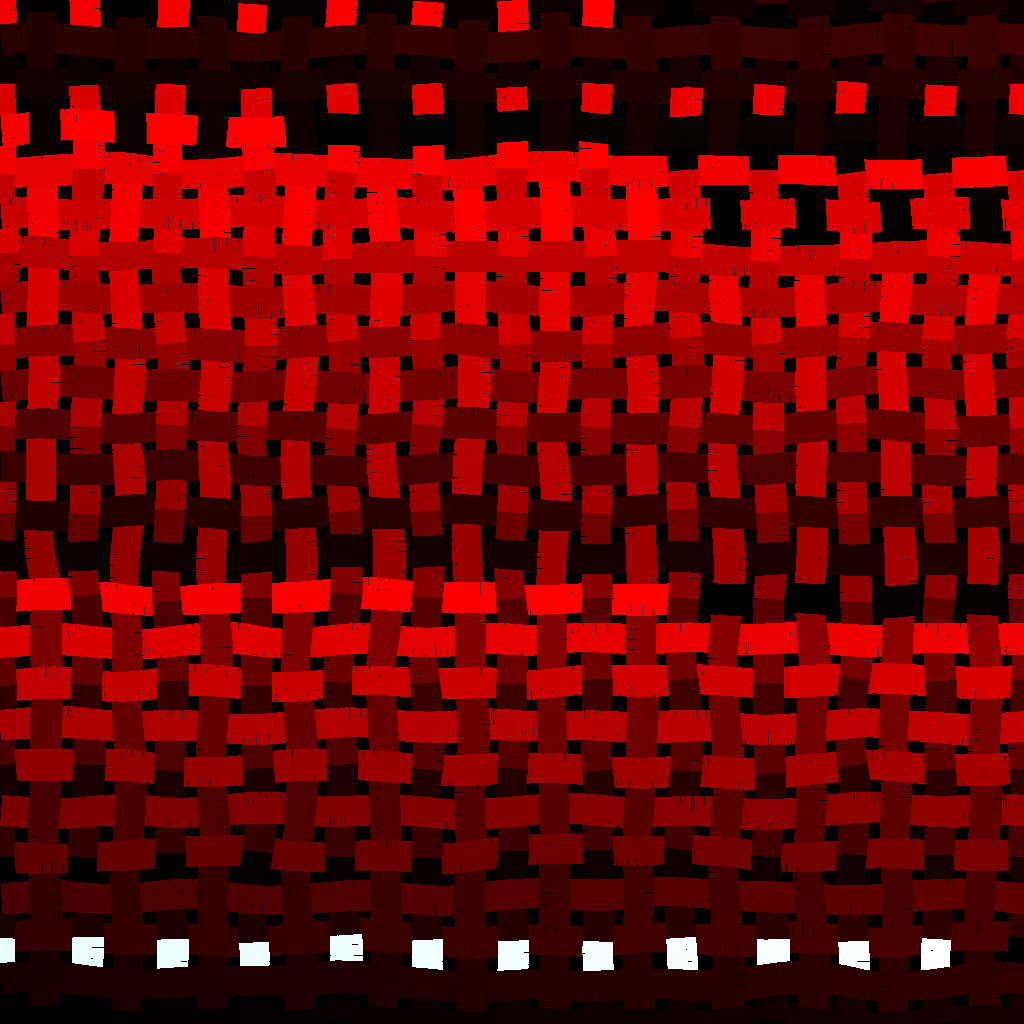
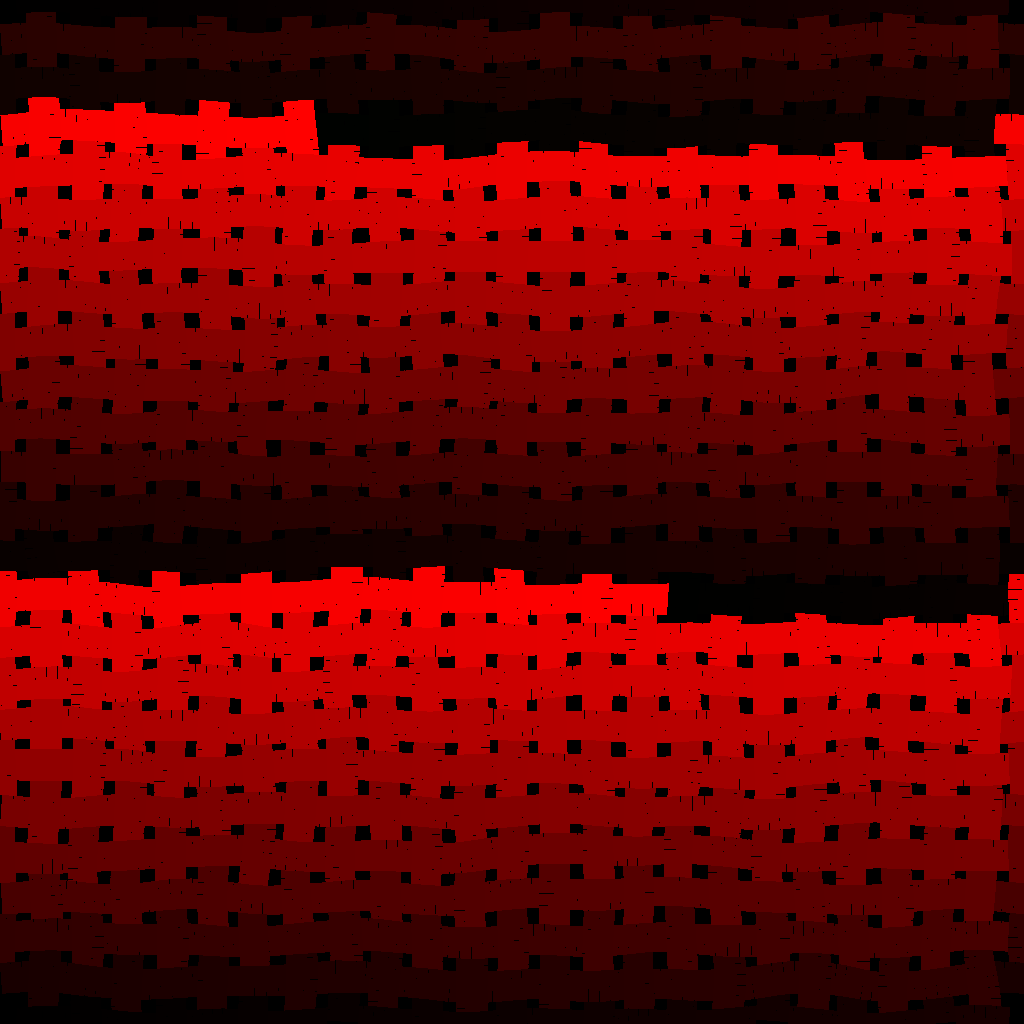
add proper pattern rendering

diff --git a/clothes-app/app/preview/page.tsx b/clothes-app/app/preview/page.tsx
@@ -146,12 +146,12 @@ const ThreeScene: React.FC = () => {
                             const pixel_index = get_index(indexed_x, indexed_y, pixels_cvs.width);
                             const base_color_index = get_index(x, y);
 
-                            const r = 0;
-                            const g = 255 * (indexed_y / 24);
-                            const b = 0;
-                            // const r = pixels_image_data.data[pixel_index + 0];
-                            // const g = pixels_image_data.data[pixel_index + 1];
-                            // const b = pixels_image_data.data[pixel_index + 2];
+                            // const r = 255 * (indexed_x / 24);
+                            // const g = 255 * (indexed_y / 24);
+                            // const b = 0;
+                            const r = pixels_image_data.data[pixel_index + 0];
+                            const g = pixels_image_data.data[pixel_index + 1];
+                            const b = pixels_image_data.data[pixel_index + 2];
                             // const r =
                             //     pixels_image_data.data[pixel_index + 0] *
                             //     base_color_image_data.data[base_color_index + 0];
@@ -184,18 +184,18 @@ const ThreeScene: React.FC = () => {
                 const sphere_material = new THREE.MeshPhysicalMaterial({ color: 0x0000ff });
                 const cube = new THREE.Mesh(geometry, material);
                 const sphere = new THREE.Mesh(sphere_geometry, sphere_material);
-                const light = new THREE.AmbientLight(0xffffff);
-                // const pointlight = new THREE.PointLight(0xffffff);
+                const light = new THREE.AmbientLight(0xaaaaaa);
+                const pointlight = new THREE.PointLight(0xffffff);
 
-                // pointlight.position.x = -3;
-                // pointlight.position.z = 1;
+                pointlight.position.x = -3;
+                pointlight.position.z = 1;
                 sphere.position.x = 1;
                 // scene.add(sphere);
                 scene.add(cube);
                 scene.add(light);
-                // scene.add(pointlight);
-                // const pointLightHelper = new THREE.PointLightHelper(pointlight, 0.2, 0xff0000); // red helper
-                // scene.add(pointLightHelper);
+                scene.add(pointlight);
+                const pointLightHelper = new THREE.PointLightHelper(pointlight, 0.2, 0xff0000); // red helper
+                scene.add(pointLightHelper);
 
                 // Add raycaster and mouse logic here
                 const raycaster = new THREE.Raycaster();
@@ -236,8 +236,8 @@ const ThreeScene: React.FC = () => {
 
                 // Add this function inside the useEffect hook
                 const renderScene = (t: number) => {
-                    // pointlight.position.x = Math.cos(0.0015 * t);
-                    // pointlight.position.y = Math.cos(0.001 * t);
+                    pointlight.position.x = Math.cos(0.0015 * t);
+                    pointlight.position.y = Math.cos(0.001 * t);
                     controls.update();
                     renderer.render(scene, camera);
                     requestAnimationFrame(renderScene);

diff --git a/pbr_texture_generation/src/main.rs b/pbr_texture_generation/src/main.rs
@@ -175,14 +175,26 @@ fn generate_tissage(world: &mut World) {
                     );
                 let w = perlin_x.get([perlin_scale * x_pos as f64, perlin_scale * y_pos as f64]);
                 let w = 0.015 + 0.001 * w as f32;
-                let mut node_index: usize = (x as usize % 2) * 24 + x as usize + y as usize * 24;
-                // let mut node_index: usize =
-                //     24 * (y % 24) as usize + (x % 2) as usize + 2 * (x % 24) as usize;
+                let mut node_index: usize = ((x % COUNT_X)
+                    + ((x % COUNT_X) % 2) * COUNT_X
+                    + (y % (COUNT_Y / 2)) * COUNT_X * 2)
+                    as usize;
                 if x % 2 == 0 {
                     if i > RES / 2 {
-                        node_index = (x as usize % 2) * 24 + x as usize + (y + 1) as usize * 24;
+                        node_index = ((x % COUNT_X)
+                            + ((x % COUNT_X) % 2) * COUNT_X
+                            + ((y + 1) % (COUNT_Y / 2)) * COUNT_X * 2)
+                            as usize;
                     }
                 }
+                // let mut node_index: usize = (x as usize % 2) * 24 + x as usize + y as usize * 24;
+                // let mut node_index: usize =
+                //     24 * (y % 24) as usize + (x % 2) as usize + 2 * (x % 24) as usize;
+                // if x % 2 == 0 {
+                //     if i > RES / 2 {
+                //         node_index = (x as usize % 2) * 24 + x as usize + (y + 1) as usize * 24;
+                //     }
+                // }
                 // let mut node_index: usize =
                 //     48 * (y % 24) as usize + ((y % 24) as usize % 2) + 2 * (x % 24) as usize;
                 // if x % 2 == 0 {
@@ -242,18 +254,27 @@ fn generate_tissage(world: &mut World) {
                 // let node_index: usize = 2 * (24 * 2 * y as usize + x as usize);
                 // let mut node_index: usize =
                 //     24 * (y % 24) as usize + 24 * ((x + 1) % 2) as usize + 2 * (x % 24) as usize;
-                let mut node_index: usize =
-                    (y as usize + 1) % 2 + 2 * (x as usize % 24) + 24 * (y as usize % 24);
+                let mut node_index: usize = ((x % (COUNT_X / 2)) * 2
+                    + (y % COUNT_Y) * COUNT_X
+                    + ((y % COUNT_Y) + 1) % 2) as usize;
                 if y % 2 == 1 {
                     if i > RES / 2 {
-                        node_index = (y as usize + 1) % 2
-                            + 2 * ((x + 1) as usize % 24)
-                            + 24 * (y as usize % 24);
-                        // node_index = 24 * (y % 24) as usize
-                        //     + 24 * (x % 2) as usize
-                        //     + 2 * ((x + 1) % 24) as usize;
+                        node_index = (((x + 1) % (COUNT_X / 2)) * 2
+                            + (y % COUNT_Y) * COUNT_X
+                            + ((y % COUNT_Y) + 1) % 2)
+                            as usize;
                     }
                 }
+                // if y % 2 == 1 {
+                //     if i > RES / 2 {
+                //         node_index = (y as usize + 1) % 2
+                //             + 2 * ((x + 1) as usize % 24)
+                //             + 24 * (y as usize % 24);
+                //         // node_index = 24 * (y % 24) as usize
+                //         //     + 24 * (x % 2) as usize
+                //         //     + 2 * ((x + 1) % 24) as usize;
+                //     }
+                // }
                 // let mut node_index: usize =
                 //     48 * (y % 24) as usize + (((y % 24) as usize + 1) % 2) + 2 * (x % 24) as usize;
                 // if y % 2 == 1 {
